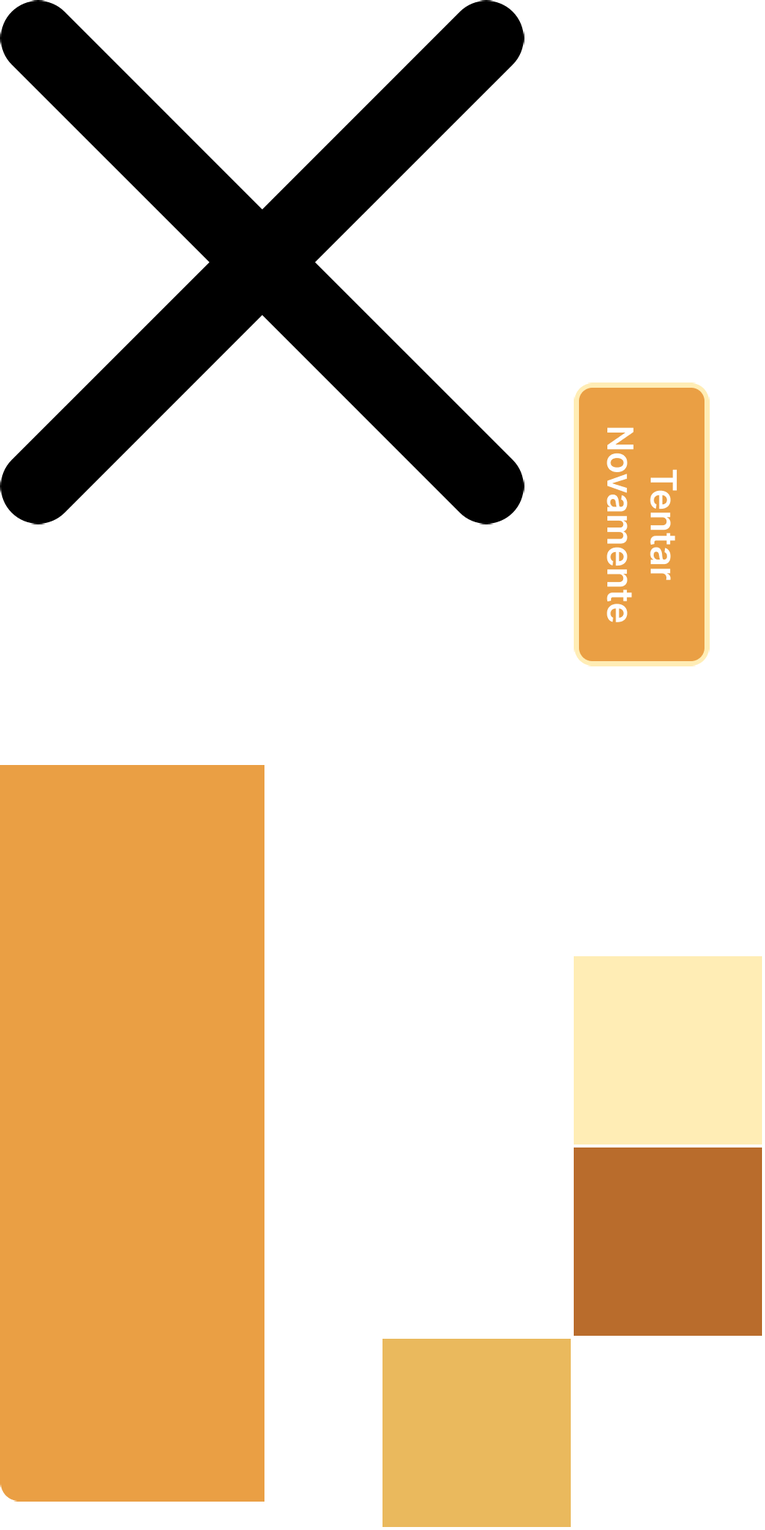
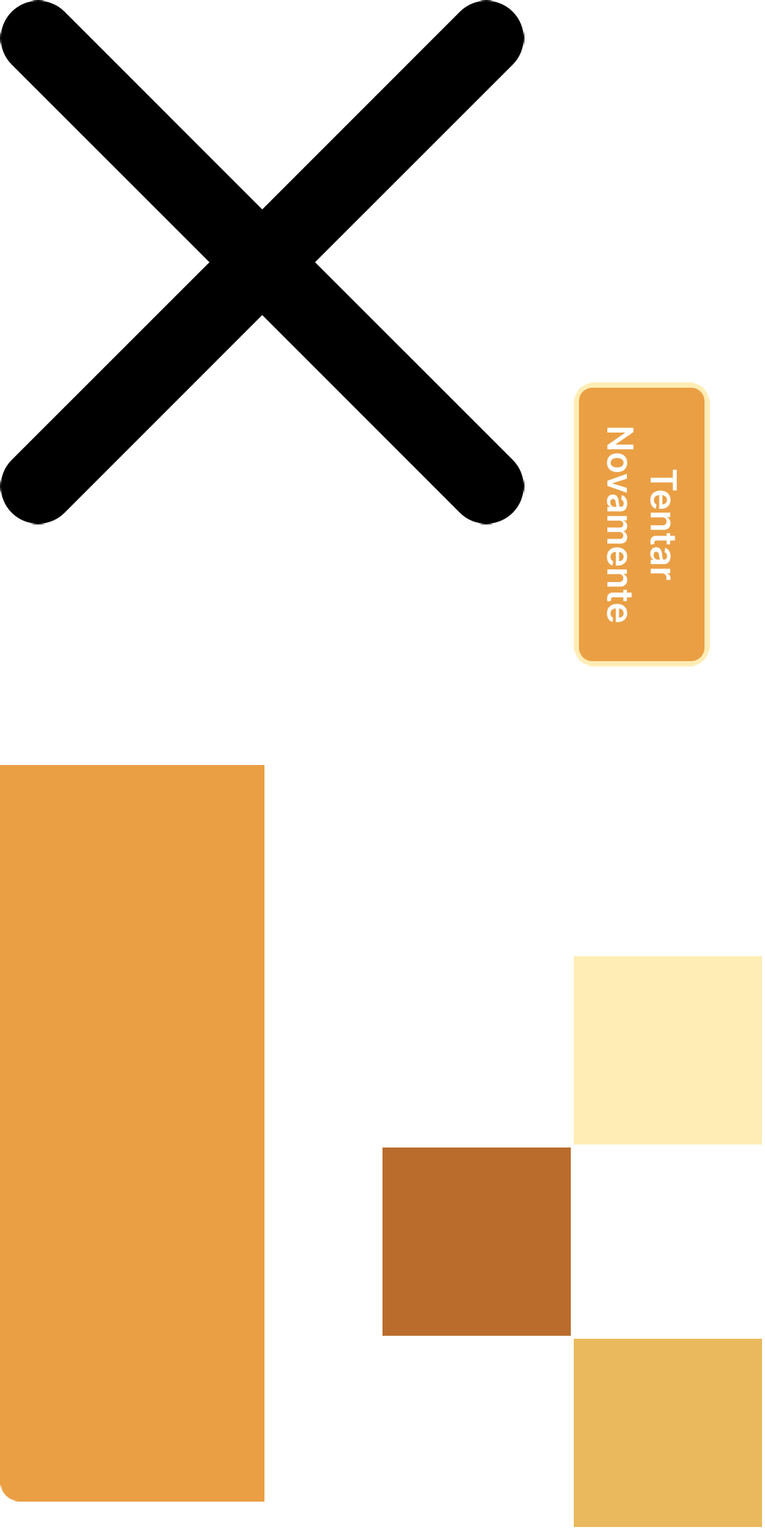
update

Changed region(s): [[0.5, 0.75, 1.0, 1.0]]

diff --git a/scripts/c3runtime.js b/scripts/c3runtime.js
@@ -3277,6 +3277,19 @@ e=>this._OnJobWorkerMessage(e)}catch(err){this._hadErrorCreatingWorker=true;this
 
 {
 self["C3_Shaders"] = {};
+self["C3_Shaders"]["replacecolor"] = {
+	glsl: "varying mediump vec2 vTex;\nuniform lowp sampler2D samplerFront;\nuniform lowp vec3 sourceColor;\nuniform lowp vec3 destColor;\nuniform lowp float tolerance;\nvoid main(void)\n{\nlowp vec4 front = texture2D(samplerFront, vTex);\nlowp float a = front.a;\nif (a != 0.0)\nfront.rgb /= a;\nlowp float diff = length(front.rgb - sourceColor);\nif (diff <= tolerance)\n{\nfront.rgb = mix(front.rgb, destColor, 1.0 - diff / tolerance);\n}\nfront.rgb *= a;\ngl_FragColor = front;\n}",
+	wgsl: "%%SAMPLERFRONT_BINDING%% var samplerFront : sampler;\n%%TEXTUREFRONT_BINDING%% var textureFront : texture_2d<f32>;\nstruct ShaderParams {\nsourceColor : vec3<f32>;\ndestColor : vec3<f32>;\ntolerance : f32;\n};\n%%SHADERPARAMS_BINDING%% var<uniform> shaderParams : ShaderParams;\n%%C3_UTILITY_FUNCTIONS%%\n%%FRAGMENTINPUT_STRUCT%%\n%%FRAGMENTOUTPUT_STRUCT%%\n@stage(fragment)\nfn main(input : FragmentInput) -> FragmentOutput\n{\nvar front : vec4<f32> = c3_unpremultiply(textureSample(textureFront, samplerFront, input.fragUV));\nvar rgb : vec3<f32> = front.rgb;\nvar diff : f32 = length(rgb - shaderParams.sourceColor);\nif (diff <= shaderParams.tolerance)\n{\nrgb = mix(rgb, shaderParams.destColor, 1.0 - diff / shaderParams.tolerance);\n}\nvar output : FragmentOutput;\noutput.color = vec4<f32>(rgb * front.a, front.a);\nreturn output;\n}",
+	blendsBackground: false,
+	usesDepth: false,
+	extendBoxHorizontal: 0,
+	extendBoxVertical: 0,
+	crossSampling: false,
+	mustPreDraw: false,
+	preservesOpaqueness: true,
+	animated: false,
+	parameters: [["sourceColor",0,"color"],["destColor",0,"color"],["tolerance",0,"percent"]]
+};
 
 }
 
@@ -3577,6 +3590,81 @@ this._rasterImage.GetRasterizedResult();if(texture){tempRect.set(0,0,this._raste
 }
 
 {
+'use strict';{const C3=self.C3;C3.Plugins.Spritefont2=class SpriteFontPlugin extends C3.SDKPluginBase{constructor(opts){super(opts)}Release(){super.Release()}}}
+{const C3=self.C3;C3.Plugins.Spritefont2.Type=class SpriteFontType extends C3.SDKTypeBase{constructor(objectClass){super(objectClass);this._spriteFont=C3.New(self.SpriteFont)}Release(){super.Release()}OnCreate(){this.GetImageInfo().LoadAsset(this._runtime)}LoadTextures(renderer){return this.GetImageInfo().LoadStaticTexture(renderer,{sampling:this._runtime.GetSampling()})}ReleaseTextures(){this.GetImageInfo().ReleaseTexture()}GetSpriteFont(){return this._spriteFont}UpdateSettings(characterWidth,characterHeight,
+characterSet,spacingData){const imageInfo=this.GetImageInfo();const sf=this._spriteFont;sf.SetWidth(imageInfo.GetWidth());sf.SetHeight(imageInfo.GetHeight());sf.SetCharacterWidth(characterWidth);sf.SetCharacterHeight(characterHeight);sf.SetCharacterSet(characterSet);sf.SetSpacingData(spacingData);sf.UpdateCharacterMap()}}}
+{const C3=self.C3;const C3X=self.C3X;const TEXT=0;const ENABLE_BBCODE=1;const CHARACTER_WIDTH=2;const CHARACTER_HEIGHT=3;const CHARACTER_SET=4;const SPACING_DATA=5;const SCALE=6;const CHARACTER_SPACING=7;const LINE_HEIGHT=8;const HORIZONTAL_ALIGNMENT=9;const VERTICAL_ALIGNMENT=10;const WRAPPING=11;const INITIALLY_VISIBLE=12;const ORIGIN=13;const HORIZONTAL_ALIGNMENTS=["left","center","right"];const VERTICAL_ALIGNMENTS=["top","center","bottom"];const WORD_WRAP=0;const CHARACTER_WRAP=1;C3.Plugins.Spritefont2.Instance=
+class SpriteFontInstance extends C3.SDKWorldInstanceBase{constructor(inst,properties){super(inst);this._text="";this._enableBBcode=true;this._characterWidth=16;this._characterHeight=16;this._characterSet="ABCDEFGHIJKLMNOPQRSTUVWXYZabcdefghijklmnopqrstuvwxyz0123456789.,;:?!-_~#\"'&()[]|`\\/@\u00b0+=*$\u00a3\u20ac<>";let spacingData="";this._characterScale=1;this._characterSpacing=0;this._lineHeight=0;this._horizontalAlign=0;this._verticalAlign=0;this._wrapByWord=true;this._spriteFontText=null;this._typewriterStartTime=
+-1;this._typewriterEndTime=-1;this._typewriterLength=0;if(properties){this._text=properties[0];this._enableBBcode=properties[1];this._characterWidth=properties[2];this._characterHeight=properties[3];this._characterSet=properties[4];spacingData=properties[5];this._characterScale=properties[6];this._characterSpacing=properties[7];this._lineHeight=properties[8];this._horizontalAlign=properties[9];this._verticalAlign=properties[10];this._wrapByWord=properties[11]===0;const wi=this.GetWorldInfo();wi.SetVisible(properties[12])}this._sdkType.UpdateSettings(this._characterWidth,
+this._characterHeight,this._characterSet,spacingData);this._spriteFontText=C3.New(self.SpriteFontText,this._sdkType.GetSpriteFont());const wi=this.GetWorldInfo();this._spriteFontText.SetSize(wi.GetWidth(),wi.GetHeight());this._UpdateSettings();this._inst.SetMustMitigateZFighting()}Release(){this._CancelTypewriter();this._spriteFontText.Release();this._spriteFontText=null;super.Release()}_UpdateSettings(){const sft=this._spriteFontText;if(!sft)return;sft.SetBBCodeEnabled(this._enableBBcode);sft.SetText(this._text);
+sft.SetWordWrapMode(this._wrapByWord?"word":"character");sft.SetHorizontalAlign(HORIZONTAL_ALIGNMENTS[this._horizontalAlign]);sft.SetVerticalAlign(VERTICAL_ALIGNMENTS[this._verticalAlign]);sft.SetSpacing(this._characterSpacing);sft.SetLineHeight(this._lineHeight)}Draw(renderer){const imageInfo=this._objectClass.GetImageInfo();const texture=imageInfo.GetTexture();if(!texture)return;renderer.SetTexture(texture);const wi=this.GetWorldInfo();let q=wi.GetBoundingQuad();const sft=this._spriteFontText;sft.SetScale(this._characterScale);
+sft.SetSceneGraphScale(wi.GetSceneGraphScale());if(this._runtime.IsPixelRoundingEnabled())q=wi.PixelRoundQuad(q);sft.SetSize(wi.GetWidth(),wi.GetHeight());sft.GetSpriteFont().SetTexRect(imageInfo.GetTexRect());sft.SetColor(wi.GetUnpremultipliedColor());sft.Draw(renderer,q.getTlx(),q.getTly(),wi.GetAngle())}SaveToJson(){const ret={"t":this._text,"ebbc":this._enableBBcode,"csc":this._characterScale,"csp":this._characterSpacing,"lh":this._lineHeight,"ha":this._horizontalAlign,"va":this._verticalAlign,
+"w":this._wrapByWord,"cw":this._sdkType.GetSpriteFont().GetCharacterWidth(),"ch":this._sdkType.GetSpriteFont().GetCharacterHeight(),"cs":this._sdkType.GetSpriteFont().GetCharacterSet(),"sd":this._sdkType.GetSpriteFont().GetSpacingData()};if(this._typewriterEndTime!==-1)ret["tw"]={"st":this._typewriterStartTime,"en":this._typewriterEndTime,"l":this._typewriterLength};return ret}LoadFromJson(o){this._CancelTypewriter();this._text=o["t"];this._enableBBcode=o["ebbc"];this._characterScale=o["csc"];this._characterSpacing=
+o["csp"];this._lineHeight=o["lh"];this._horizontalAlign=o["ha"];this._verticalAlign=o["va"];this._wrapByWord=o["w"];if(o.hasOwnProperty("tw")){const tw=o["tw"];this._typewriterStartTime=tw["st"];this._typewriterEndTime=tw["en"];this._typewriterLength=o["l"]}const spriteFont=this._sdkType.GetSpriteFont();spriteFont.SetCharacterWidth(o["cw"]);spriteFont.SetCharacterHeight(o["ch"]);spriteFont.SetCharacterSet(o["cs"]);spriteFont.SetSpacingData(o["sd"]);this._UpdateSettings();if(this._typewriterEndTime!==
+-1)this._StartTicking()}GetPropertyValueByIndex(index){switch(index){case TEXT:return this._text;case ENABLE_BBCODE:return this._enableBBcode;case CHARACTER_WIDTH:return this._sdkType.GetSpriteFont().GetCharacterWidth();case CHARACTER_HEIGHT:return this._sdkType.GetSpriteFont().GetCharacterHeight();case CHARACTER_SET:return this._sdkType.GetSpriteFont().GetCharacterSet();case SPACING_DATA:return this._sdkType.GetSpriteFont().GetSpacingData();case SCALE:return this._characterScale;case CHARACTER_SPACING:return this._characterSpacing;
+case LINE_HEIGHT:return this._lineHeight;case HORIZONTAL_ALIGNMENT:return this._horizontalAlign;case VERTICAL_ALIGNMENT:return this._verticalAlign;case WRAPPING:return this._wrapByWord?CHARACTER_WRAP:WORD_WRAP}}SetPropertyValueByIndex(index,value){switch(index){case TEXT:if(this._text===value)return;this._text=value;this._UpdateSettings();break;case ENABLE_BBCODE:if(this._enableBBcode===!!value)return;this._enableBBcode=!!value;this._UpdateSettings();break;case CHARACTER_WIDTH:this._sdkType.GetSpriteFont().SetCharacterWidth(value);
+break;case CHARACTER_HEIGHT:this._sdkType.GetSpriteFont().SetCharacterHeight(value);break;case CHARACTER_SET:this._sdkType.GetSpriteFont().SetCharacterSet(value);break;case SPACING_DATA:this._sdkType.GetSpriteFont().SetSpacingData(value);break;case SCALE:if(this._characterScale===value)return;this._characterScale=value;this._UpdateSettings();break;case CHARACTER_SPACING:if(this._characterSpacing===value)return;this._characterSpacing=value;this._UpdateSettings();break;case LINE_HEIGHT:if(this._lineHeight===
+value)return;this._lineHeight=value;this._UpdateSettings();break;case HORIZONTAL_ALIGNMENT:if(this._horizontalAlign===value)return;this._horizontalAlign=value;this._UpdateSettings();break;case VERTICAL_ALIGNMENT:if(this._verticalAlign===value)return;this._verticalAlign=value;this._UpdateSettings();break;case WRAPPING:if(this._wrapByWord===(value===WORD_WRAP))return;this._wrapByWord=value===WORD_WRAP;this._UpdateSettings();break}}_SetText(text){if(this._text===text)return;this._text=text;this._spriteFontText.SetText(text);
+this._runtime.UpdateRender()}GetText(){return this._text}_StartTypewriter(text,duration){this._SetText(text);this._typewriterStartTime=this._runtime.GetWallTime();this._typewriterEndTime=this._typewriterStartTime+duration/this.GetInstance().GetActiveTimeScale();this._typewriterLength=C3.BBString.StripAnyTags(text).length;this._spriteFontText.SetDrawMaxCharacterCount(0);this._StartTicking()}_CancelTypewriter(){this._typewriterStartTime=-1;this._typewriterEndTime=-1;this._typewriterLength=0;this._spriteFontText.SetDrawMaxCharacterCount(-1);
+this._StopTicking()}_FinishTypewriter(){if(this._typewriterEndTime===-1)return;this._CancelTypewriter();this.Trigger(C3.Plugins.Spritefont2.Cnds.OnTypewriterTextFinished);this._runtime.UpdateRender()}_SetScale(s){if(this._characterScale===s)return;this._characterScale=s;this._spriteFontText.SetScale(this._characterScale);this._runtime.UpdateRender()}_GetScale(){return this._characterScale}_SetCharacterSpacing(s){if(this._characterSpacing===s)return;this._characterSpacing=s;this._spriteFontText.SetSpacing(this._characterSpacing);
+this._runtime.UpdateRender()}_GetCharacterSpacing(){return this._characterSpacing}_SetLineHeight(h){if(this._lineHeight===h)return;this._lineHeight=h;this._spriteFontText.SetLineHeight(this._lineHeight);this._runtime.UpdateRender()}_GetLineHeight(){return this._lineHeight}_SetHAlign(h){if(this._horizontalAlign===h)return;this._horizontalAlign=h;this._UpdateSettings();this._runtime.UpdateRender()}_GetHAlign(){return this._horizontalAlign}_SetVAlign(v){if(this._verticalAlign===v)return;this._verticalAlign=
+v;this._UpdateSettings();this._runtime.UpdateRender()}_GetVAlign(){return this._verticalAlign}_SetWrapByWord(w){w=!!w;if(this._wrapByWord===w)return;this._wrapByWord=w;this._UpdateSettings();this._runtime.UpdateRender()}_IsWrapByWord(){return this._wrapByWord}Tick(){const wallTime=this._runtime.GetWallTime();if(wallTime>=this._typewriterEndTime){this._CancelTypewriter();this.Trigger(C3.Plugins.Spritefont2.Cnds.OnTypewriterTextFinished);this._runtime.UpdateRender()}else{let displayLength=C3.relerp(this._typewriterStartTime,
+this._typewriterEndTime,wallTime,0,this._typewriterLength);displayLength=Math.floor(displayLength);if(displayLength!==this._spriteFontText.GetDrawMaxCharacterCount()){this._spriteFontText.SetDrawMaxCharacterCount(displayLength);this._runtime.UpdateRender()}}}GetDebuggerProperties(){const prefix="plugins.spritefont2";return[{title:prefix+".name",properties:[{name:prefix+".properties.text.name",value:this._text,onedit:v=>this._SetText(v)}]}]}GetScriptInterfaceClass(){return self.ISpriteFontInstance}};
+const map=new WeakMap;const SCRIPT_HORIZONTAL_ALIGNMENTS=new Map([["left",0],["center",1],["right",2]]);const SCRIPT_VERTICAL_ALIGNMENTS=new Map([["top",0],["center",1],["bottom",2]]);const SCRIPT_WRAP_MODES=new Map([["word",true],["character",false]]);self.ISpriteFontInstance=class ISpriteFontInstance extends self.IWorldInstance{constructor(){super();map.set(this,self.IInstance._GetInitInst().GetSdkInstance())}get text(){return map.get(this).GetText()}set text(str){C3X.RequireString(str);const inst=
+map.get(this);inst._CancelTypewriter();inst._SetText(str)}typewriterText(str,duration){C3X.RequireString(str);C3X.RequireFiniteNumber(duration);const inst=map.get(this);inst._CancelTypewriter();inst._StartTypewriter(str,duration)}typewriterFinish(){map.get(this)._FinishTypewriter()}set characterScale(s){C3X.RequireFiniteNumber(s);map.get(this)._SetScale(s)}get characterScale(){return map.get(this)._GetScale()}set characterSpacing(s){C3X.RequireFiniteNumber(s);map.get(this)._SetCharacterSpacing(s)}get characterSpacing(){return map.get(this)._GetCharacterSpacing()}set lineHeight(lho){C3X.RequireFiniteNumber(lho);
+map.get(this)._SetLineHeight(lho)}get lineHeight(){return map.get(this)._GetLineHeight()}set horizontalAlign(str){C3X.RequireString(str);const h=SCRIPT_HORIZONTAL_ALIGNMENTS.get(str);if(typeof h==="undefined")throw new Error("invalid mode");map.get(this)._SetHAlign(h)}get horizontalAlign(){return HORIZONTAL_ALIGNMENTS[map.get(this)._GetHAlign()]}set verticalAlign(str){C3X.RequireString(str);const v=SCRIPT_VERTICAL_ALIGNMENTS.get(str);if(typeof v==="undefined")throw new Error("invalid mode");map.get(this)._SetVAlign(v)}get verticalAlign(){return VERTICAL_ALIGNMENTS[map.get(this)._GetVAlign()]}set wordWrapMode(str){C3X.RequireString(str);
+const isWrapByWord=SCRIPT_WRAP_MODES.get(str);if(typeof isWrapByWord==="undefined")throw new Error("invalid mode");map.get(this)._SetWrapByWord(isWrapByWord)}get wordWrapMode(){return map.get(this)._IsWrapByWord()?"word":"character"}}}{const C3=self.C3;C3.Plugins.Spritefont2.Cnds={CompareText(text,caseSensitive){if(caseSensitive)return this._text===text;else return C3.equalsNoCase(this._text,text)},IsRunningTypewriterText(){return this._typewriterEndTime!==-1},OnTypewriterTextFinished(){return true}}}
+{const C3=self.C3;C3.Plugins.Spritefont2.Acts={SetText(param){this._CancelTypewriter();if(typeof param==="number"&&param<1E9)param=Math.round(param*1E10)/1E10;this._SetText(param.toString())},AppendText(param){this._CancelTypewriter();if(typeof param==="number"&&param<1E9)param=Math.round(param*1E10)/1E10;param=param.toString();if(!param)return;this._SetText(this._text+param)},TypewriterText(param,duration){this._CancelTypewriter();if(typeof param==="number"&&param<1E9)param=Math.round(param*1E10)/
+1E10;this._StartTypewriter(param.toString(),duration)},TypewriterFinish(){this._FinishTypewriter()},SetScale(s){this._SetScale(s)},SetCharacterSpacing(s){this._SetCharacterSpacing(s)},SetLineHeight(h){this._SetLineHeight(h)},SetCharacterWidth(chars,width){let didAnyChange=false;const spriteFont=this._sdkType.GetSpriteFont();for(const ch of chars)if(ch===" "){spriteFont.SetSpaceWidth(width);didAnyChange=true}else{const sfc=spriteFont.GetCharacter(ch);if(sfc){sfc.SetDisplayWidth(width);didAnyChange=
+true}}if(didAnyChange)spriteFont.SetCharacterWidthsChanged();this._runtime.UpdateRender()},SetEffect(effect){this.GetWorldInfo().SetBlendMode(effect);this._runtime.UpdateRender()},SetHAlign(h){this._SetHAlign(h)},SetVAlign(v){this._SetVAlign(v)},SetWrapping(w){this._SetWrapByWord(w===0)}}}
+{const C3=self.C3;C3.Plugins.Spritefont2.Exps={CharacterWidth(ch){const sfc=this._sdkType.GetSpriteFont().GetCharacter(ch);if(sfc)return sfc.GetDisplayWidth();else return this._sdkType.GetSpriteFont().GetCharacterWidth()},CharacterHeight(){return this._characterHeight},CharacterScale(){return this._characterScale},CharacterSpacing(){return this._characterSpacing},LineHeight(){return this._lineHeight},Text(){return this._text},PlainText(){if(this._enableBBcode)return C3.BBString.StripAnyTags(this._text);
+else return this._text},TextWidth(){const wi=this.GetWorldInfo();this._spriteFontText.SetSize(wi.GetWidth(),wi.GetHeight());return this._spriteFontText.GetTextWidth()},TextHeight(){const wi=this.GetWorldInfo();this._spriteFontText.SetSize(wi.GetWidth(),wi.GetHeight());return this._spriteFontText.GetTextHeight()}}};
+
+}
+
+{
+'use strict';const C3=self.C3;
+self.SpriteFontCharacter=class SpriteFontCharacter{constructor(spriteFont,char,x,y){let charWidth=spriteFont.GetCharacterWidth();let charHeight=spriteFont.GetCharacterHeight();this._spriteFont=spriteFont;this._char=char;this._pxRect=new C3.Rect(x,y,x+charWidth,y+charHeight);this._texRect=new C3.Rect;this._displayWidth=-1;this._UpdateTexRect()}Release(){this._spriteFont=null;this._pxRect=null;this._texRect=null}_UpdateTexRect(){let w=this._spriteFont.GetWidth();let h=this._spriteFont.GetHeight();this._texRect.copy(this._pxRect);
+this._texRect.divide(w,h);this._texRect.lerpInto(this._spriteFont.GetTexRect())}GetSpriteFont(){return this._spriteFont}GetChar(){return this._char}GetTexRect(){return this._texRect}SetDisplayWidth(w){this._displayWidth=w}GetDisplayWidth(){if(this._displayWidth<0)return this._spriteFont.GetCharacterWidth();else return this._displayWidth}};
+
+}
+
+{
+'use strict';const C3=self.C3;const tmpRect=new C3.Rect;const tmpQuad=new C3.Quad;const tmpColor=new C3.Color;const VALID_HORIZ_ALIGNMENTS=new Set(["left","center","right"]);const VALID_VERT_ALIGNMENTS=new Set(["top","center","bottom"]);const VALID_WORD_WRAP_MODES=new Set(["word","character"]);
+self.SpriteFontText=class SpriteFontText{constructor(spriteFont){this._spriteFont=spriteFont;this._cssWidth=0;this._cssHeight=0;this._text="";this._isBBcodeEnabled=false;this._bbString=null;this._wrappedText=C3.New(C3.WordWrap);this._wrapMode="word";this._wrapChanged=false;this._horizontalAlign="left";this._verticalAlign="top";this._scale=1;this._sceneGraphScale=1;this._spacing=0;this._lineHeight=0;this._color=C3.New(C3.Color);this._drawMaxCharCount=-1;this._drawCharCount=0;this._measureTextCallback=
+(str,styles)=>this._MeasureText(str,styles);this._spriteFont._AddSpriteFontText(this)}Release(){this._spriteFont._RemoveSpriteFontText(this);this._color=null;this._measureTextCallback=null;this._wrappedText.Clear();this._wrappedText=null;this._spriteFont=null;this._bbString=null}_MeasureText(str,styles){const scaleStyle=this._GetStyleTag(styles,"scale");const scale=(scaleStyle?parseFloat(scaleStyle.param):this._scale)*this._sceneGraphScale;const scaleXStyle=this._GetStyleTag(styles,"scalex");const scaleX=
+(scaleXStyle?parseFloat(scaleXStyle.param):1)*scale;const scaleYStyle=this._GetStyleTag(styles,"scaley");const scaleY=(scaleYStyle?parseFloat(scaleYStyle.param):1)*scale;const lineTotalHeight=this._spriteFont.GetCharacterHeight()*scaleY+this._lineHeight;const spriteFont=this.GetSpriteFont();const defaultCharWidth=spriteFont.GetCharacterWidth()*scaleX;const spacing=this.GetSpacing();if(spriteFont.HasAnyCustomWidths()){let strLen=0;let totalWidth=0;for(const ch of str){let charWidth=defaultCharWidth;
+const sfc=spriteFont.GetCharacter(ch);if(sfc)charWidth=sfc.GetDisplayWidth()*scaleX;else if(ch===" ")charWidth=spriteFont.GetSpaceWidth()*scaleX;totalWidth+=charWidth;++strLen}return{width:totalWidth+strLen*spacing,height:lineTotalHeight}}else{const strLen=[...str].length;const spaceCount=Math.max(strLen,0);return{width:defaultCharWidth*strLen+spaceCount*spacing,height:lineTotalHeight}}}_SetWrapChanged(){this._wrapChanged=true;this._wrappedText.Clear()}SetSize(cssWidth,cssHeight){if(cssWidth<=0||
+cssHeight<=0)return;if(this._cssWidth===cssWidth&&this._cssHeight===cssHeight)return;if(this._cssWidth!==cssWidth)this._SetWrapChanged();this._cssWidth=cssWidth;this._cssHeight=cssHeight}SetDrawMaxCharacterCount(n){this._drawMaxCharCount=Math.floor(n)}GetDrawMaxCharacterCount(){return this._drawMaxCharCount}_GetStyleTag(styles,tag){for(let i=styles.length-1;i>=0;--i){const s=styles[i];if(s.tag===tag)return s}return null}_HasStyleTag(styles,tag){return!!this._GetStyleTag(styles,tag)}_MaybeWrapText(){if(!this._wrapChanged)return;
+if(this._isBBcodeEnabled&&(!this._bbString||this._bbString.toString()!==this._text))this._bbString=new C3.BBString(this._text,{noEscape:true});const endOfLineMargin=-this.GetSpacing();this._wrappedText.WordWrap(this._isBBcodeEnabled?this._bbString.toFragmentList():this._text,this._measureTextCallback,this._cssWidth,this._wrapMode,endOfLineMargin);this._wrapChanged=false}Draw(renderer,offX,offY,angle){this._MaybeWrapText();this._drawCharCount=0;let penY=0;const lineSpaceHeight=this._lineHeight;const lines=
+C3.cloneArray(this._wrappedText.GetLines());const sin_a=Math.sin(angle);const cos_a=Math.cos(angle);const linesTotalHeight=lines.reduce((a,v)=>a+v.height,0)-lineSpaceHeight;if(this._verticalAlign==="center")penY=Math.max(Math.floor(this._cssHeight/2-linesTotalHeight/2),0);else if(this._verticalAlign==="bottom")penY=Math.floor(this._cssHeight-linesTotalHeight);for(let i=0,len=lines.length;i<len;++i){const line=lines[i];const curLineTextHeight=line.height;if(i>0&&penY>this._cssHeight-(curLineTextHeight-
+lineSpaceHeight))break;if(penY>=0)this._DrawLine(renderer,line,offX,offY,penY,sin_a,cos_a);penY+=curLineTextHeight}}_DrawLine(renderer,line,offX,offY,penY,sin_a,cos_a){const lineHeight=line.height;let penX=0;if(this._horizontalAlign==="center")penX=Math.max(Math.floor((this._cssWidth-line.width)/2),0);else if(this._horizontalAlign==="right")penX=Math.max(Math.floor(this._cssWidth-line.width),0);for(const frag of line.fragments){this._DrawFragment(renderer,frag,offX,offY,penX,penY,sin_a,cos_a,lineHeight);
+penX+=frag.width}}_DrawFragment(renderer,frag,offX,offY,penX,penY,sin_a,cos_a,lineHeight){let text=frag.text;let fragWidth=frag.width;const styles=frag.styles;if(this._drawMaxCharCount!==-1){if(this._drawCharCount>=this._drawMaxCharCount)return;if(this._drawCharCount+text.length>this._drawMaxCharCount){text=text.substr(0,this._drawMaxCharCount-this._drawCharCount);fragWidth=this._MeasureText(text,styles).width}this._drawCharCount+=text.length}const backgroundStyle=this._GetStyleTag(styles,"background");
+if(C3.IsStringAllWhitespace(text)&&!backgroundStyle||this._HasStyleTag(styles,"hide"))return;const scaleStyle=this._GetStyleTag(styles,"scale");const scale=(scaleStyle?parseFloat(scaleStyle.param):this._scale)*this._sceneGraphScale;const scaleXStyle=this._GetStyleTag(styles,"scalex");const scaleX=(scaleXStyle?parseFloat(scaleXStyle.param):1)*scale;const scaleYStyle=this._GetStyleTag(styles,"scaley");const scaleY=(scaleYStyle?parseFloat(scaleYStyle.param):1)*scale;const charHeight=this._spriteFont.GetCharacterHeight()*
+scaleY;const lineSpaceHeight=this._lineHeight;penY+=lineHeight-lineSpaceHeight-charHeight;const offsetXStyle=this._GetStyleTag(styles,"offsetx");penX+=offsetXStyle?parseFloat(offsetXStyle.param):0;const offsetYStyle=this._GetStyleTag(styles,"offsety");penY+=offsetYStyle?parseFloat(offsetYStyle.param):0;if(backgroundStyle){renderer.SetColorFillMode();tmpColor.parseString(backgroundStyle.param);tmpColor.setA(1);renderer.SetColor(tmpColor);tmpRect.set(penX,penY,penX+fragWidth,penY+charHeight);if(tmpRect.getRight()>
+this._cssWidth)tmpRect.setRight(this._cssWidth);tmpQuad.setFromRotatedRectPrecalc(tmpRect,sin_a,cos_a);tmpQuad.offset(offX,offY);renderer.Quad(tmpQuad);renderer.SetTextureFillMode()}const colorStyle=this._GetStyleTag(styles,"color");if(colorStyle){tmpColor.parseString(colorStyle.param);tmpColor.setA(this._color.getA())}else tmpColor.copy(this._color);const opacityStyle=this._GetStyleTag(styles,"opacity");if(opacityStyle)tmpColor.setA(tmpColor.getA()*parseFloat(opacityStyle.param)/100);tmpColor.premultiply();
+renderer.SetColor(tmpColor);const drawCharWidth=this._spriteFont.GetCharacterWidth()*scaleX;const endOfLineMargin=Math.abs(this.GetSpacing());for(const ch of text){const sfc=this._spriteFont.GetCharacter(ch);if(sfc){const layoutCharWidth=sfc.GetDisplayWidth()*scaleX;if(penX+layoutCharWidth>this._cssWidth+endOfLineMargin+1E-5)return;tmpRect.set(penX,penY,penX+drawCharWidth,penY+charHeight);tmpQuad.setFromRotatedRectPrecalc(tmpRect,sin_a,cos_a);tmpQuad.offset(offX,offY);renderer.Quad3(tmpQuad,sfc.GetTexRect());
+penX+=layoutCharWidth+this._spacing}else penX+=this._spriteFont.GetSpaceWidth()*scaleX+this._spacing}}GetSpriteFont(){return this._spriteFont}SetBBCodeEnabled(e){e=!!e;if(this._isBBcodeEnabled===e)return;this._isBBcodeEnabled=e;this._SetWrapChanged()}IsBBCodeEnabled(){return this._isBBcodeEnabled}SetText(text){if(this._text===text)return;this._text=text;this._SetWrapChanged()}SetWordWrapMode(w){if(!VALID_WORD_WRAP_MODES.has(w))throw new Error("invalid word wrap mode");if(this._wrapMode===w)return;
+this._wrapMode=w;this._SetWrapChanged()}SetHorizontalAlign(a){if(!VALID_HORIZ_ALIGNMENTS.has(a))throw new Error("invalid alignment");this._horizontalAlign=a}SetVerticalAlign(a){if(!VALID_VERT_ALIGNMENTS.has(a))throw new Error("invalid alignment");this._verticalAlign=a}SetScale(s){if(this._scale===s)return;this._scale=s;this._SetWrapChanged()}GetScale(){return this._scale}SetSceneGraphScale(s){if(this._sceneGraphScale===s)return;this._sceneGraphScale=s;this._SetWrapChanged()}GetSceneGraphScale(){return this._sceneGraphScale}SetSpacing(s){if(this._spacing===
+s)return;this._spacing=s;this._SetWrapChanged()}GetSpacing(){return this._spacing}SetLineHeight(h){this._lineHeight=h;this._SetWrapChanged()}GetLineHeight(){return this._lineHeight}SetOpacity(o){o=C3.clamp(o,0,1);this._color.a=o}SetColor(c){if(this._color.equals(c))return;this._color.copy(c)}GetColor(){return this._color}GetTextWidth(){this._MaybeWrapText();return this._wrappedText.GetMaxLineWidth()}GetTextHeight(){this._MaybeWrapText();const lineTextHeight=this._spriteFont.GetCharacterHeight()*this._scale;
+const lineSpaceHeight=this._lineHeight;const lineTotalHeight=lineTextHeight+lineSpaceHeight;return this._wrappedText.GetLineCount()*lineTotalHeight-lineSpaceHeight}};
+
+}
+
+{
+'use strict';const C3=self.C3;const SpriteFontText=self.SpriteFontText;const DEFAULT_SPRITEFONT_OPTS={width:256,height:256,characterWidth:16,characterHeight:16,characterSet:""};
+self.SpriteFont=class SpriteFont{constructor(opts){opts=Object.assign({},DEFAULT_SPRITEFONT_OPTS,opts);if(opts.width<=0||opts.height<=0||opts.characterWidth<=0||opts.characterHeight<=0)throw new Error("invalid size");this._width=opts.width;this._height=opts.height;this._characterWidth=opts.characterWidth;this._characterHeight=opts.characterHeight;this._characterSet=opts.characterSet;this._spacingData="";this._spacingParsed=null;this._hasAnyCustomWidths=false;this._spaceWidth=-1;this._texRect=new C3.Rect(0,
+0,1,1);this._characterMap=new Map;this._mapChanged=true;this._allTexts=new Set}Release(){this._texRect=null;this._ReleaseCharacters();this._characterMap=null;if(this._allTexts)this._allTexts.clear();this._allTexts=null}_ReleaseCharacters(){for(let c of this._characterMap.values())c.Release();this._characterMap.clear()}_AddSpriteFontText(sft){this._allTexts.add(sft)}_RemoveSpriteFontText(sft){this._allTexts.delete(sft)}UpdateCharacterMap(){if(!this._mapChanged)return;this._ReleaseCharacters();let charSetArr=
+[...this._characterSet];let cols=Math.floor(this._width/this._characterWidth);let rows=Math.floor(this._height/this._characterHeight);let last=cols*rows;for(let i=0,len=charSetArr.length;i<len;++i){if(i>=last)break;let x=i%cols;let y=Math.floor(i/cols);let char=charSetArr[i];this._characterMap.set(char,C3.New(self.SpriteFontCharacter,this,char,x*this._characterWidth,y*this._characterHeight))}this._hasAnyCustomWidths=false;this._spaceWidth=-1;if(Array.isArray(this._spacingParsed))for(let entry of this._spacingParsed){if(!Array.isArray(entry))continue;
+if(entry.length!==2)continue;let charWidth=entry[0];let str=entry[1];if(typeof charWidth!=="number"||!isFinite(charWidth)||typeof str!=="string")continue;if(charWidth===this._characterWidth)continue;for(let ch of str){let sfc=this._characterMap.get(ch);if(sfc){sfc.SetDisplayWidth(charWidth);this._hasAnyCustomWidths=true}else if(ch===" "){this._spaceWidth=charWidth;this._hasAnyCustomWidths=true}}}this._mapChanged=false;for(let sft of this._allTexts)sft._SetWrapChanged()}SetCharacterWidthsChanged(){this._hasAnyCustomWidths=
+true;for(const sft of this._allTexts)sft._SetWrapChanged()}GetCharacter(ch){this.UpdateCharacterMap();return this._characterMap.get(ch)||null}HasAnyCustomWidths(){return this._hasAnyCustomWidths}SetWidth(w){w=Math.floor(w);if(w<=0)throw new Error("invalid size");if(this._width===w)return;this._width=w;this._mapChanged=true}GetWidth(){return this._width}SetHeight(h){h=Math.floor(h);if(h<=0)throw new Error("invalid size");if(this._height===h)return;this._height=h;this._mapChanged=true}GetHeight(){return this._height}SetTexRect(rc){if(this._texRect.equals(rc))return;
+this._texRect.copy(rc);for(const sfc of this._characterMap.values())sfc._UpdateTexRect()}GetTexRect(){return this._texRect}SetCharacterWidth(w){w=Math.floor(w);if(w<=0)throw new Error("invalid size");if(this._characterWidth===w)return;this._characterWidth=w;this._mapChanged=true}GetCharacterWidth(){return this._characterWidth}SetCharacterHeight(h){h=Math.floor(h);if(h<=0)throw new Error("invalid size");if(this._characterHeight===h)return;this._characterHeight=h;this._mapChanged=true}GetCharacterHeight(){return this._characterHeight}SetCharacterSet(s){if(this._characterSet===
+s)return;this._characterSet=s;this._mapChanged=true}GetCharacterSet(){return this._characterSet}SetSpacingData(s){if(this._spacingData===s)return;this._spacingData=s;this._mapChanged=true;this._spacingParsed=null;if(this._spacingData.length)try{this._spacingParsed=JSON.parse(this._spacingData)}catch(e){this._spacingParsed=null}}GetSpacingData(){return this._spacingData}SetSpaceWidth(w){if(w<0)w=-1;if(this._spaceWidth===w)return;this._spaceWidth=w;if(this._spaceWidth>=0)this._hasAnyCustomWidths=true}GetSpaceWidth(){if(this._spaceWidth<
+0)return this._characterWidth;else return this._spaceWidth}};
+
+}
+
+{
 'use strict';{const C3=self.C3;C3.Behaviors.DragnDrop=class DragnDropBehavior extends C3.SDKBehaviorBase{constructor(opts){super(opts);const rt=this._runtime.Dispatcher();this._disposables=new C3.CompositeDisposable(C3.Disposable.From(rt,"pointerdown",e=>this._OnPointerDown(e.data)),C3.Disposable.From(rt,"pointermove",e=>this._OnPointerMove(e.data)),C3.Disposable.From(rt,"pointerup",e=>this._OnPointerUp(e.data,false)),C3.Disposable.From(rt,"pointercancel",e=>this._OnPointerUp(e.data,true)))}Release(){this._disposables.Release();
 this._disposables=null;super.Release()}_OnPointerDown(e){if(e["pointerType"]==="mouse"&&e["button"]!==0)return;this._OnInputDown(e["pointerId"].toString(),e["pageX"]-this._runtime.GetCanvasClientX(),e["pageY"]-this._runtime.GetCanvasClientY())}_OnPointerMove(e){if((e["lastButtons"]&1)!==0&&(e["buttons"]&1)===0)this._OnInputUp(e["pointerId"].toString());else this._OnInputMove(e["pointerId"].toString(),e["pageX"]-this._runtime.GetCanvasClientX(),e["pageY"]-this._runtime.GetCanvasClientY())}_OnPointerUp(e,
 isCancel){if(e["pointerType"]==="mouse"&&e["button"]!==0)return;this._OnInputUp(e["pointerId"].toString())}async _OnInputDown(src,clientX,clientY){const myInstances=this.GetInstances();let topMost=null;let topBehInst=null;let topX=0;let topY=0;for(const inst of myInstances){const behInst=inst.GetBehaviorSdkInstanceFromCtor(C3.Behaviors.DragnDrop);if(!behInst.IsEnabled()||behInst.IsDragging()||inst.IsDestroyed())continue;const wi=inst.GetWorldInfo();const layer=wi.GetLayer();const [lx,ly]=layer.CanvasCssToLayer(clientX,
@@ -3602,6 +3690,7 @@ self.C3_GetObjectRefTable = function () {
 		C3.Plugins.Mouse,
 		C3.Plugins.List,
 		C3.Plugins.SVGPicture,
+		C3.Plugins.Spritefont2,
 		C3.Behaviors.DragnDrop,
 		C3.ScriptsInEvents.Gameeventos_Event1,
 		C3.Plugins.Mouse.Cnds.OnObjectClicked,
@@ -3626,9 +3715,9 @@ self.C3_GetObjectRefTable = function () {
 		C3.Plugins.System.Cnds.CompareVar,
 		C3.Plugins.Button.Acts.SetVisible,
 		C3.Plugins.Button.Acts.SetEnabled,
-		C3.Plugins.Sprite.Acts.SetDefaultColor,
+		C3.Plugins.Sprite.Acts.SetEffectParam,
 		C3.Behaviors.DragnDrop.Acts.SetEnabled,
-		C3.Plugins.System.Acts.RestartLayout,
+		C3.ScriptsInEvents.Gameeventos_Event15_Act11,
 		C3.Plugins.System.Cnds.OnLayoutStart,
 		C3.Plugins.Button.Acts.SetCSSStyle,
 		C3.Plugins.System.Acts.GoToLayout
@@ -3683,6 +3772,8 @@ self.C3_JsPropNameTable = [
 	{Sprite6: 0},
 	{FeedbackTexto2: 0},
 	{TextoResultado: 0},
+	{FonteDeSprites: 0},
+	{AreaFechar: 0},
 	{ArrastarSoltar: 0},
 	{Option: 0},
 	{Botoes: 0},
@@ -3819,9 +3910,12 @@ self.C3_ExpressionFuncs = [
 			const v0 = p._GetNode(0).GetVar();
 			return () => (and("Você acertou ", v0.GetValue()) + " de 23 questões");
 		},
-		() => -180067007873023,
-		() => -360101047844863,
+		() => "SubstituirCor",
+		() => 1,
+		() => 65280,
+		() => 255,
 		() => 0,
+		() => 3894262,
 		() => "border",
 		() => "3px solid #FFEDB5",
 		() => "background-color",
@@ -3835,7 +3929,9 @@ self.C3_ExpressionFuncs = [
 		() => "color",
 		() => "white",
 		() => "white-space",
-		() => "normal"
+		() => "normal",
+		() => "cursor",
+		() => "pointer"
 ];
 
 

diff --git a/scripts/project/principal.js b/scripts/project/principal.js
@@ -1,6 +1,4 @@
-
-// Import any other script files here, e.g.:
-// import * as myModule from "./mymodule.js";
+var grupos_x = [], grupos_y = [];
 
 runOnStartup(async runtime =>
 {
@@ -12,12 +10,38 @@ runOnStartup(async runtime =>
 
 async function OnBeforeProjectStart(runtime)
 {
-	var posicoes = [];
-	posicoes[0] = runtime.objects.A1.getFirstInstance();
+	var grupos = runtime.objects.Option.getAllInstances();
 	
-	console.log(posicoes[0]);
+	for(var i = 0; i < grupos.length; i++){
+		var grupo = grupos[i];
+		grupos_x[i] = grupo.x;
+		grupos_y[i] = grupo.y;
+	}
 	
 	runtime.addEventListener("tick", () => Tick(runtime));
+}
+
+export function Restart(runtime){
+	var grupos = runtime.objects.Option.getAllInstances();
+	var criadouros = runtime.objects.Slot.getAllInstances();
+
+	for(var i = 0; i < criadouros.length; i++){
+		var criadouro = criadouros[i];
+
+		if(criadouro.instVars.Escolha != criadouro.instVars.Resposta){
+			criadouro.instVars.Respondido = false;
+			runtime.globalVars.Respostas--;
+
+			for(var j = 0; j < grupos.length; j++){
+				var grupo = grupos[j];
+				
+				if(grupo.x == criadouro.x && grupo.y == criadouro.y){
+					grupo.x = grupos_x[j];
+					grupo.y = grupos_y[j];
+				}
+			}
+		}
+	}
 }
 
 function Tick(runtime)

diff --git a/scripts/project/scriptsInEvents.js b/scripts/project/scriptsInEvents.js
@@ -1,4 +1,4 @@
-
+import * as Principal from "./principal.js";
 
 
 const scriptsInEvents = {
@@ -6,6 +6,11 @@ const scriptsInEvents = {
 		async Gameeventos_Event1(runtime, localVars)
 		{
 			
+		},
+
+		async Gameeventos_Event15_Act11(runtime, localVars)
+		{
+			Principal.Restart(runtime);
 		}
 
 };
